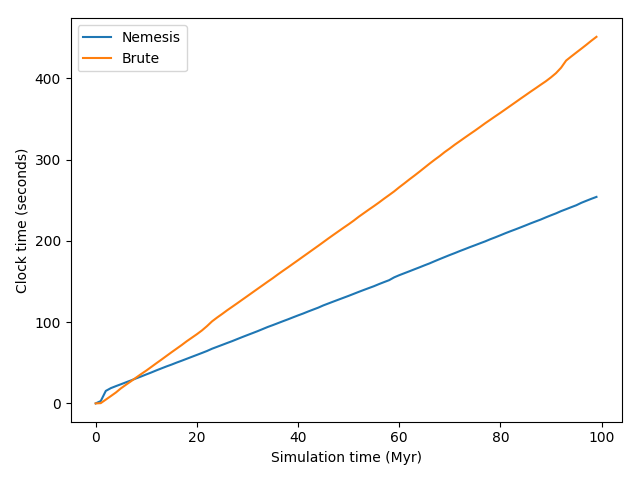
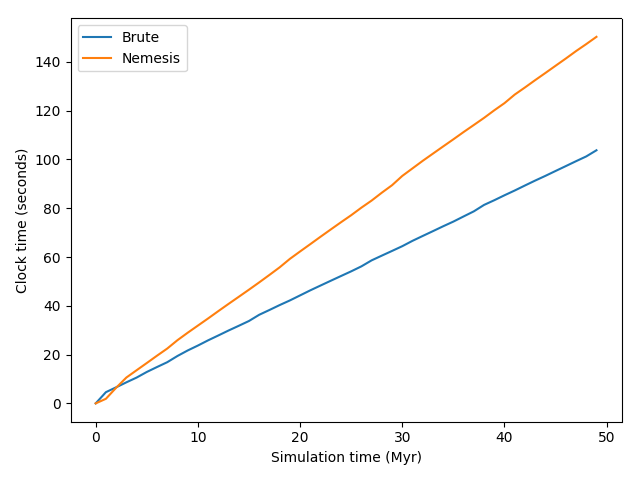
sub_worker is nonetype, which is bad if i had to guess

diff --git a/src/main.py b/src/main.py
@@ -16,7 +16,7 @@ import os
 from nemesis import Nemesis, HierarchicalParticles, system_type
 
 #Circumvent a problem with using too many threads on OpenMPI
-#os.environ["OMPI_MCA_rmaps_base_oversubscribe"] = "yes"
+os.environ["OMPI_MCA_rmaps_base_oversubscribe"] = "yes"
 
 #chapter 7 AMUSE textbook
 
@@ -300,13 +300,13 @@ def main(Rgal, Mgal, alpha, gravity_solvers, Nclusters, Nstars, W0, M,
 if __name__ == '__main__':
 
     Mgal, Rgal, alpha = 1.6e10|units.MSun, 1000.|units.parsec, 1.2
-    Nclusters = 4
+    Nclusters = 1
     Nstars, W0cluster, Mcluster, Rcluster = 20, 1.5, 100.|units.MSun, 1.|units.parsec
     Rinit = 1000.|units.parsec
     parameters = [('epsilon_squared', 0.01|(units.parsec**2))]
     t_end, dt = 50.|units.Myr, 1.|units.Myr
 
-    gravity_solvers = [ 'Brute', 'Nemesis' ]
+    gravity_solvers = [ 'Nemesis' ]
 
     main(Rgal, Mgal, alpha, gravity_solvers, Nclusters, Nstars, W0cluster,
          Mcluster, Rcluster, Rinit, parameters, t_end, dt)
